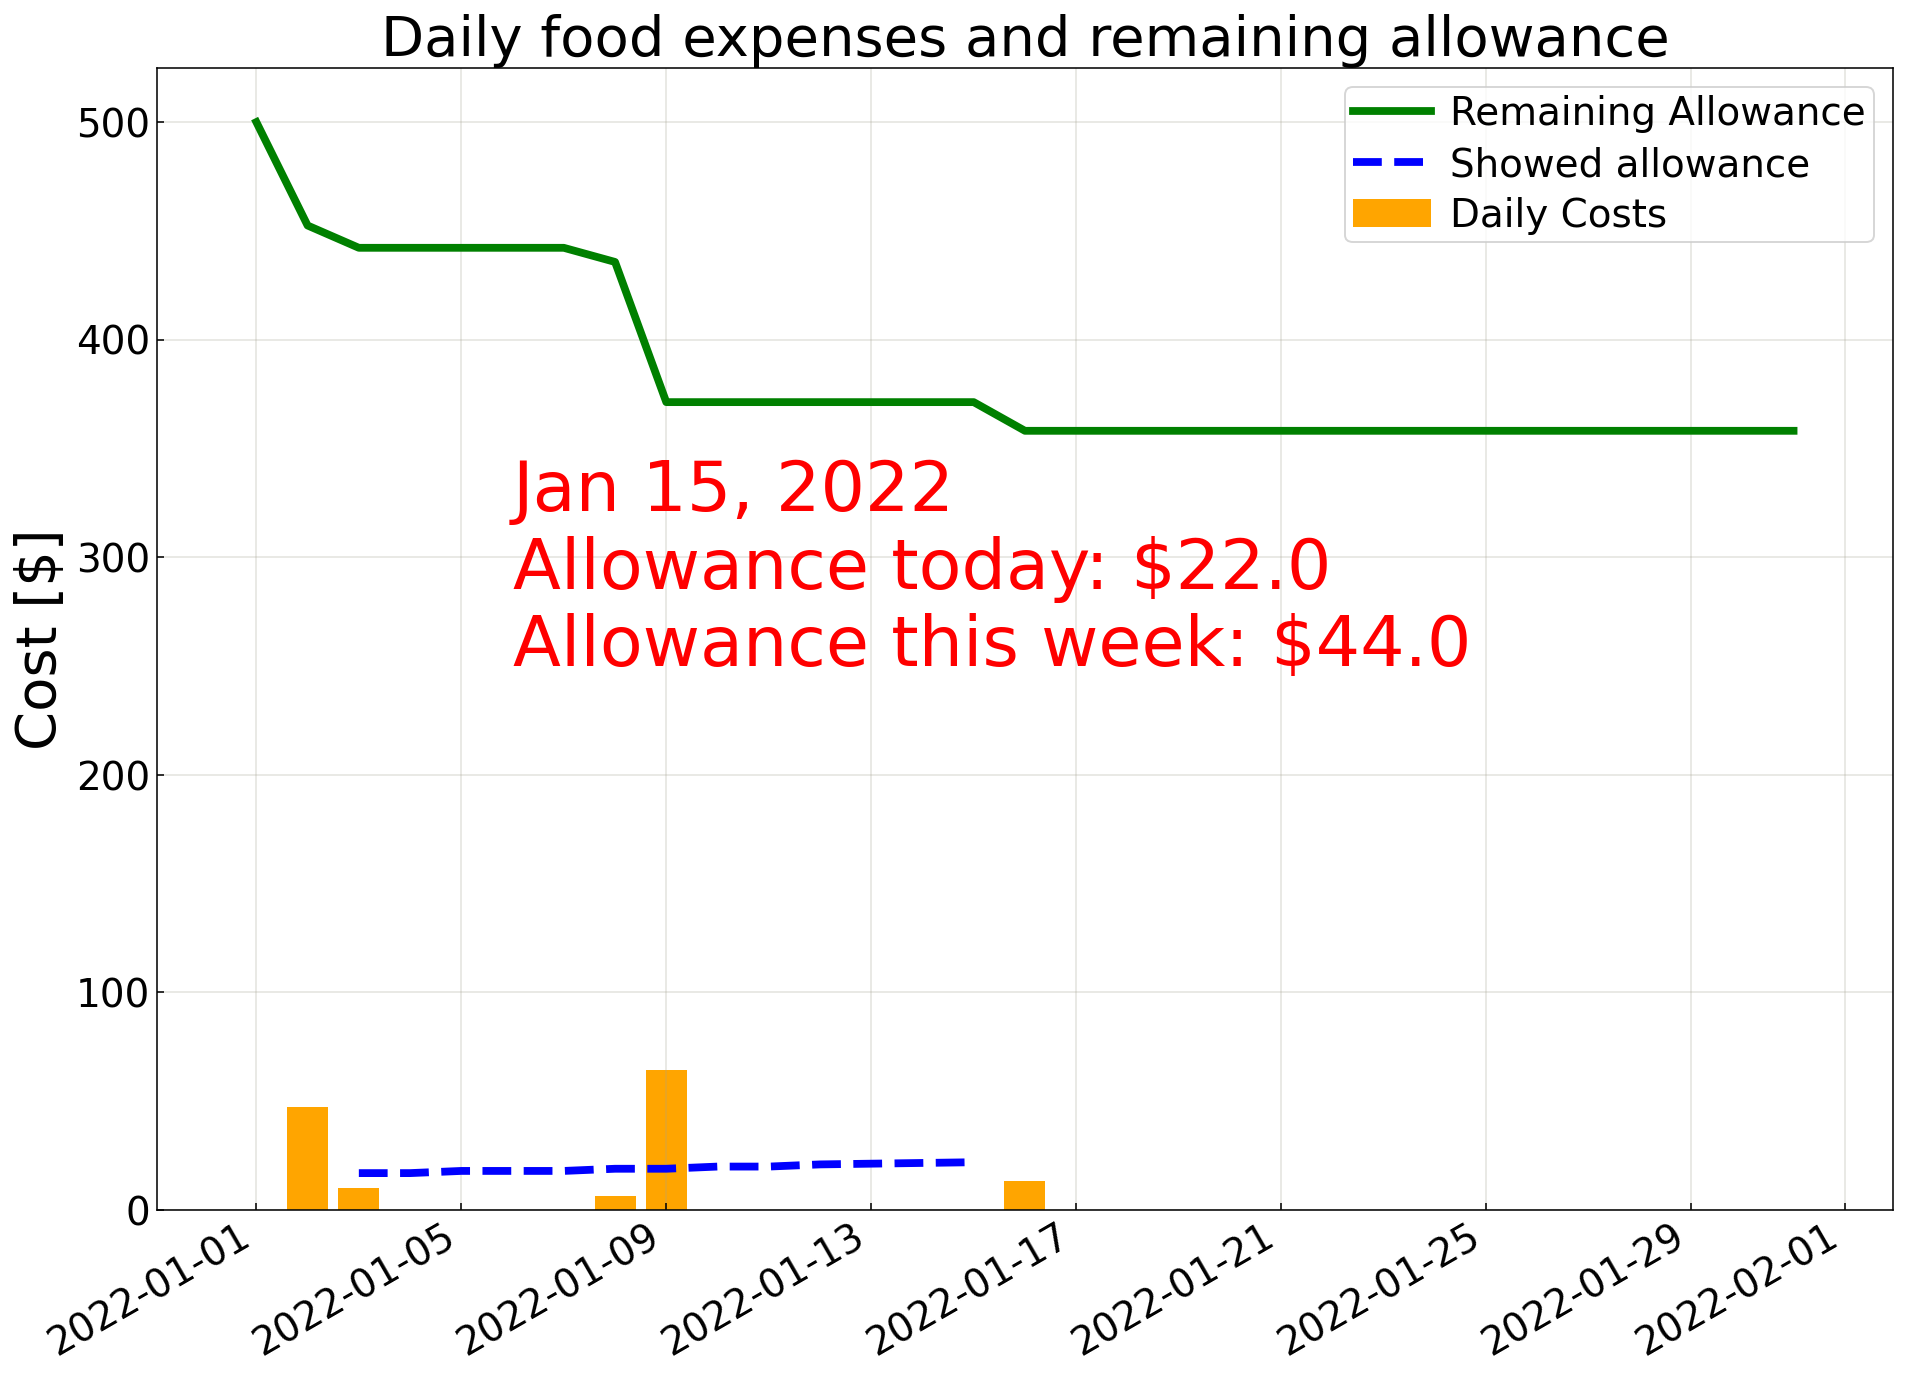
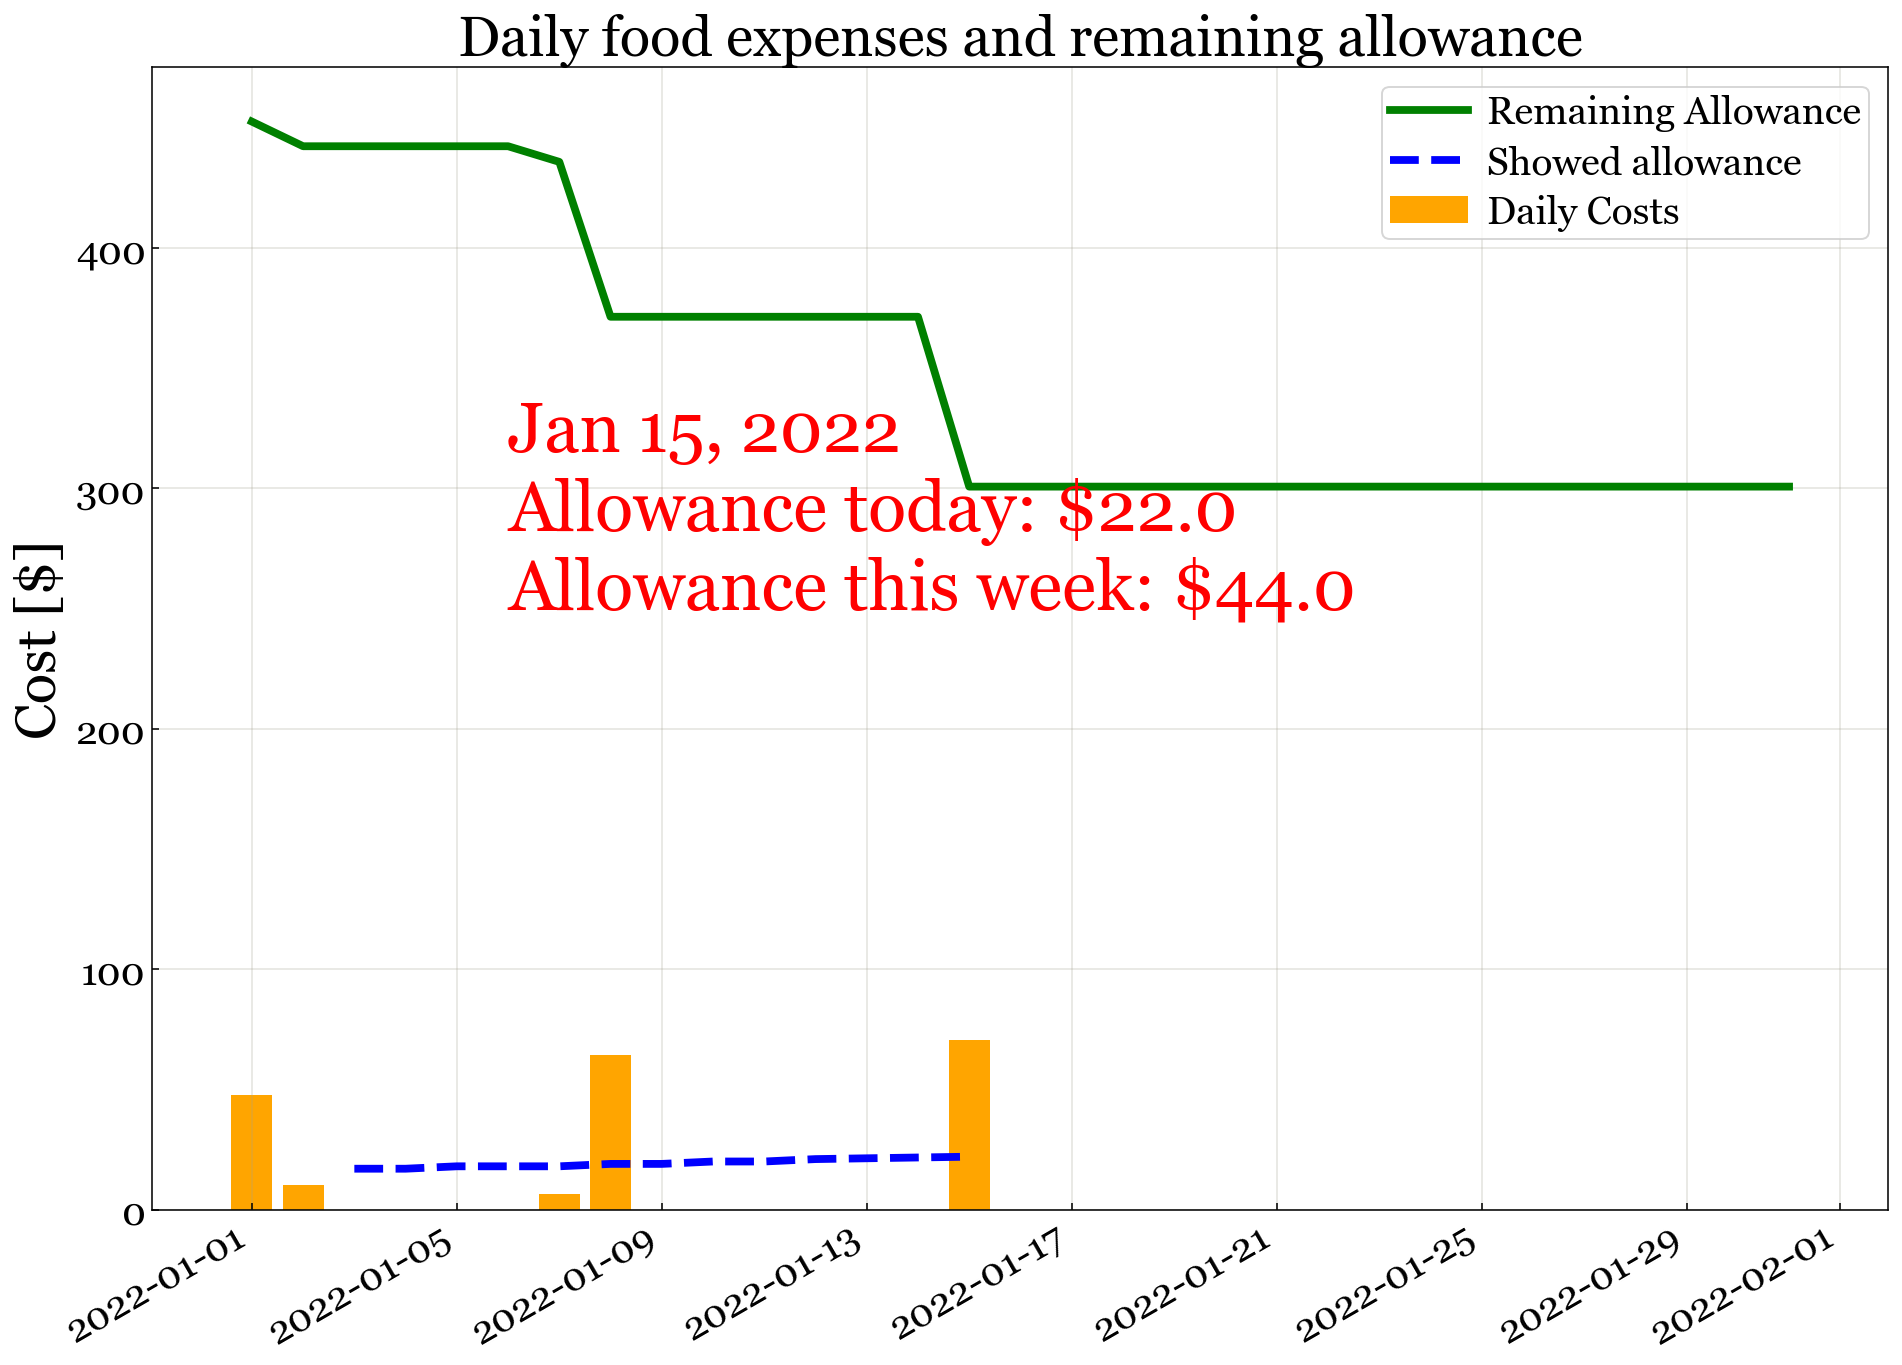
Corrected daily costs

diff --git a/foodExpenses.py b/foodExpenses.py
@@ -1,15 +1,9 @@
 import gspread
 import numpy as np
-import argparse
-import copy
-from datetime import timedelta, datetime, date
+from datetime import datetime, date
 from calendar import monthrange
 from oauth2client.service_account import ServiceAccountCredentials
 import matplotlib.pyplot as plt  # For plotting
-# For saving figures to single pdf
-from matplotlib.backends.backend_pdf import PdfPages
-import matplotlib.dates as mdates
-from matplotlib.offsetbox import AnchoredOffsetbox, TextArea, VPacker
 # *****************************************************************************
 # Setting RC Parameters for figure size and fontsizes
 import matplotlib.pylab as pylab
@@ -53,22 +47,6 @@ credentials = ServiceAccountCredentials.from_json_keyfile_name(
 monthlyAllowance = 500
 
 
-def grabInputArgs():
-    parser = argparse.ArgumentParser(
-        description='')
-    parser.add_argument('--type')
-    parser.add_argument('--project_id')
-    parser.add_argument('--private_key_id')
-    parser.add_argument('--private_key')
-    parser.add_argument('--client_email')
-    parser.add_argument('--client_id')
-    parser.add_argument('--auth_uri')
-    parser.add_argument('--token_uri')
-    parser.add_argument('--auth_provider_x509_cert_url')
-    parser.add_argument('--client_x509_cert_url')
-    return parser.parse_args()
-
-
 def parse(data, ii, ind):
     if data[ii][ind] == '':
         return np.NaN
@@ -81,26 +59,6 @@ def parseDate(data, ii, ind):
         return datetime.strptime(data[ii][0], '%m/%d/%Y %H:%M:%S').date()
     else:
         return datetime.strptime(data[ii][ind], '%m/%d/%Y').date()
-
-
-def removeNan(tt, mWater, sWater):
-    ii = 0
-    ttWater = copy.deepcopy(tt)
-    while(ii < len(mWater)):
-        if np.isnan(mWater[ii]):
-            mWater = np.delete(mWater, ii)
-            sWater = np.delete(sWater, ii)
-            del ttWater[ii]
-        else:
-            ii = ii+1
-    return ttWater, mWater, sWater
-
-
-def make_patch_spines_invisible(ax):
-    ax.set_frame_on(True)
-    ax.patch.set_visible(False)
-    for sp in ax.spines.values():
-        sp.set_visible(False)
 
 
 def getData(spName="Food/Groceries expense monitor (Responses)",
@@ -132,7 +90,7 @@ if __name__ == "__main__":
     dailyCosts = np.zeros(len(tt))
     for ii in range(noEntries):
         if today.month == dates[ii].month:
-            dailyCosts[dates[ii].day] += cost[ii]
+            dailyCosts[dates[ii].day - 1] += cost[ii]
             if daysFor[ii] > 1:
                 remAllowance = (remAllowance
                                 - ((today.day - dates[ii].day)
